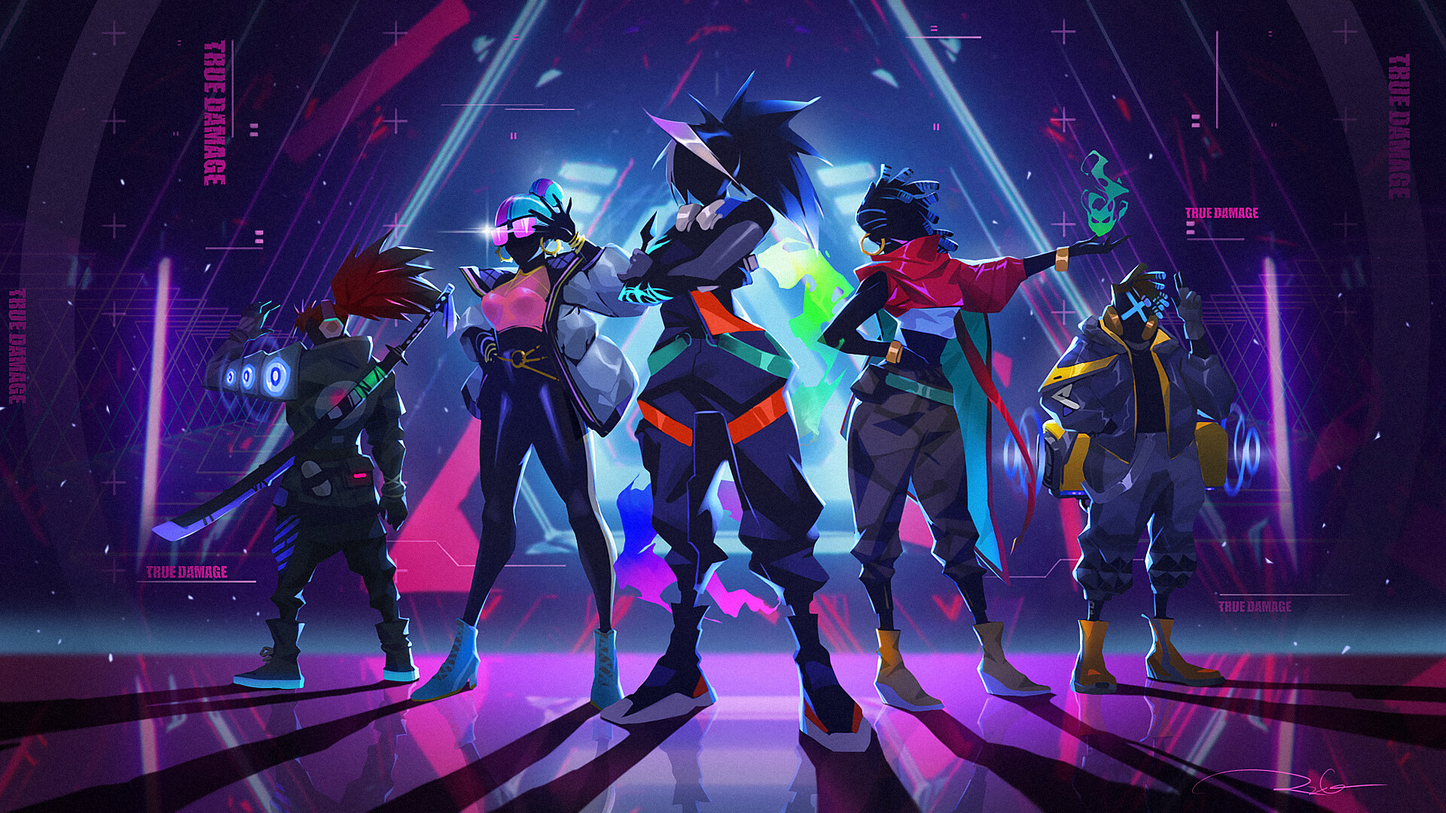
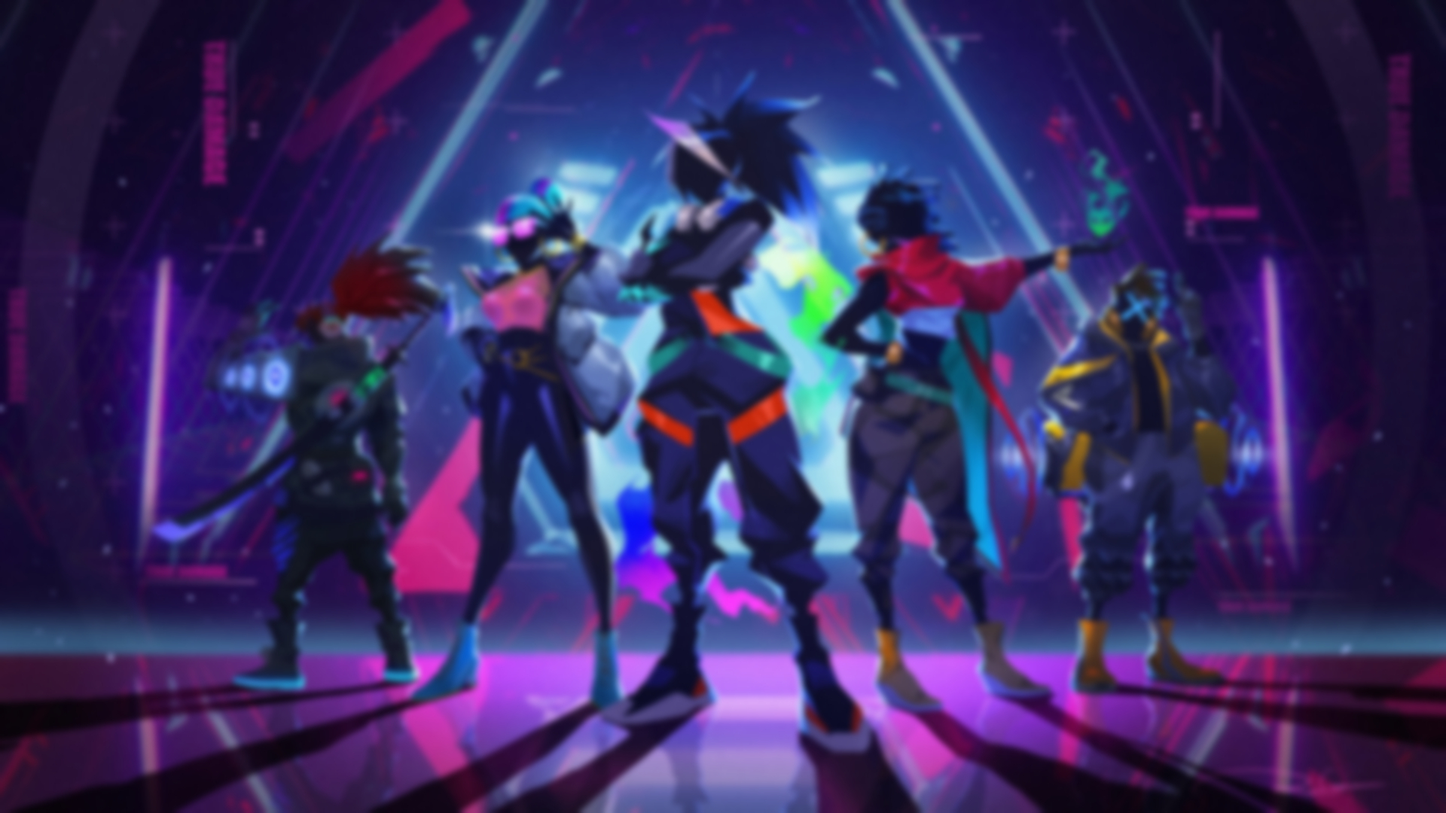
v2.1

diff --git a/index.html b/index.html
@@ -36,17 +36,19 @@
         <!-- The slideshow -->
         <div class="carousel-inner">
             <div class="carousel-item active home">
-                <div></div>
-                <div class="jumbotron jumbotron-fluid">
-                    <div class="container">
-                        <h1 class="display-4">Fluid jumbotron</h1>
-                        <p class="lead">This is a modified jumbotron that occupies the entire horizontal space of its
-                            parent.</p>
+                <div class="inner-container bg">
+                    <div class="jumbotron jumbotron-fluid">
+                        <div class="container">
+                            <h1 class="display-2">Entertaining. Competitive. Inclusive.</h1>
+                            <p class="lead">A gaming community where fun and competitiveness are both encouraged for all skill levels.</p>
+                        </div>
+                    </div>
+                    <div>
+                        <a href="https://discord.gg/BSpE3up" target="_blank">
+                            <button type="button" class="btn btn-outline-light">Join Us On Discord</button>
+                        </a>
                     </div>
                 </div>
-                <a href="https://discord.gg/BSpE3up" target="_blank">
-                    <button type="button" class="btn btn-outline-light">Join Us On Discord</button>
-                </a>
             </div>
             <div class="carousel-item watch-live">
                 <div id="twitch-embed"></div>

diff --git a/resources/style/main.css b/resources/style/main.css
@@ -9,34 +9,45 @@ a:hover{
     color: #f8f9fa;
 }
 
-div, body, html {
+body, html {
     height: 100%;
     /*background: #6b5b95;*/
 }
 
-.carousel-item{
-    position: relative;
-}
-
 .carousel-item a{
-    position: absolute;
-    left: 50%;
-    margin-left: -50px;
-    top: 50%;
-    margin-top: -50px;
+    margin: auto;
 }
 
-.home div:first-child{
+.home .jumbotron{
+    margin: auto;
+    background-color: transparent;
+    color: #f8f9fa;
+    text-align: center;
+}
+
+.inner-container{
+    display: flex;
+    flex-wrap: wrap;
+    align-items: flex-start;
+}
+
+.inner-container div{
+    width: 100%;
+}
+
+.home .bg{
     background-image: url("img/truedamage.jpg");
     background-repeat:no-repeat;
-    filter:blur(4px);
     background-size:cover;
-    height:100%;
+    height: 1080px;
+    width: 100%;
 }
 
+
 .home button{
-    display: inline-flex;
+    display: flex;
     align-items: center;
+    margin: auto;
 }
 
 .home button:before{
@@ -90,5 +101,12 @@ div, body, html {
         margin: auto;
     }
 }
+
+@media (min-width: 1200px){
+    .container, .container-lg, .container-md, .container-sm, .container-xl {
+        max-width: max-content;
+    }
+}
+
 
 /* ------------------------- */
